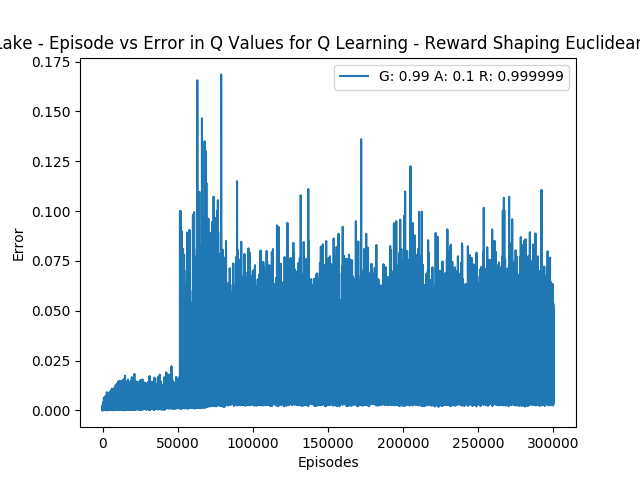
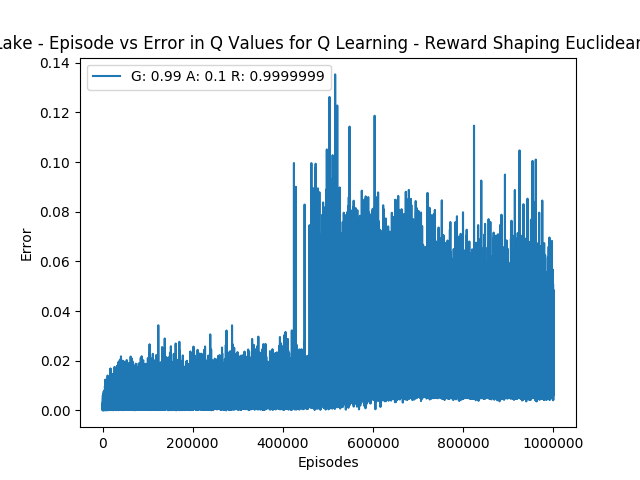
some new radr rates

diff --git a/frozen_lake_env.py b/frozen_lake_env.py
@@ -51,10 +51,10 @@ def frozen_lake():
         'q_gamma': [0.99], #[0.95, 0.975, 0.99],
         'q_epsilon': [1e-5],
         'q_alphas': [0.1], #[0.01, 0.001],
-        'q_radrs': [0.999999], #[0.999, 0.99999],
+        'q_radrs': [0.9999999], #[0.999, 0.99999],
         'q_learning_error_plot_title_value': 'Frozen Lake - Episode vs Error in Q Values for Q Learning - Reward Shaping Euclidean Distance',
         'q_path_value': './Q_Learning/',
-        'q_episodes': 300000,
+        'q_episodes': 1000000,
         'q_policy_eval': 'Frozen Lake - Policy Evaluation over 1000 Episodes for Q Learning - Reward Shaping Euclidean Distance',
         'reward_shape': shape_reward_pour_la_lac,
         'q_value_heatmap': 'Q-Values Heatmap - Reward Shaping Euclidean Distance',
